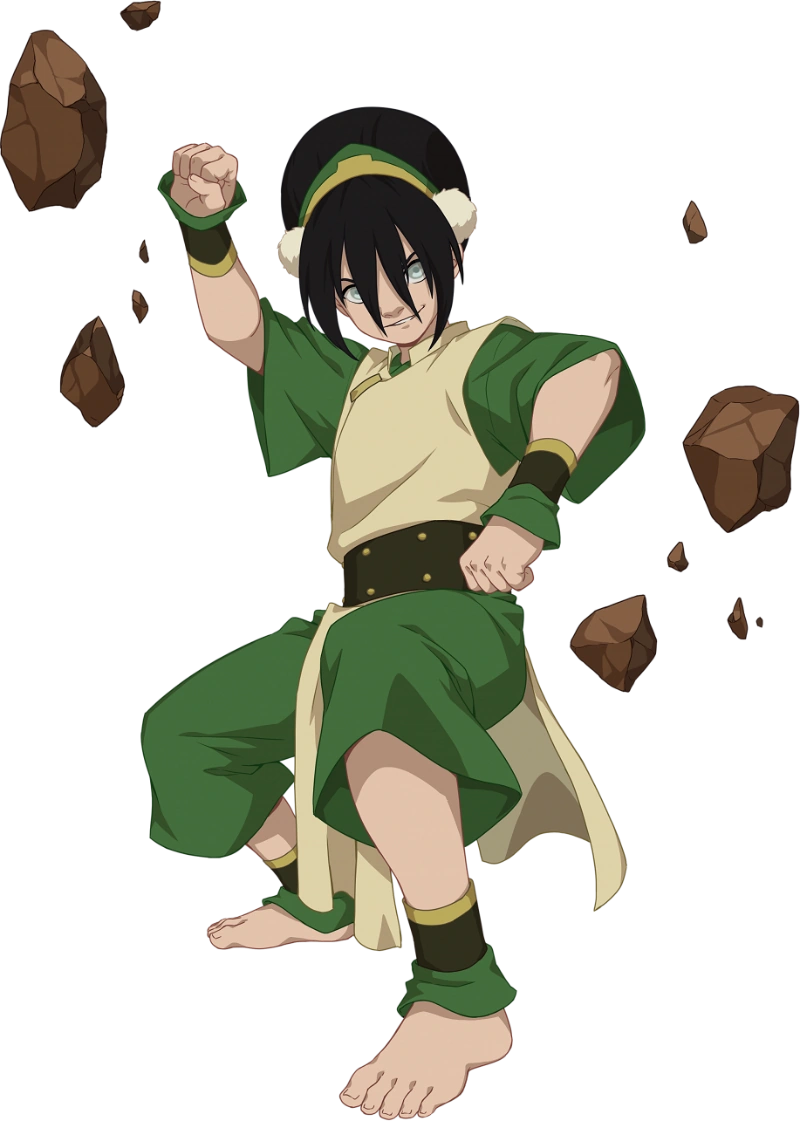
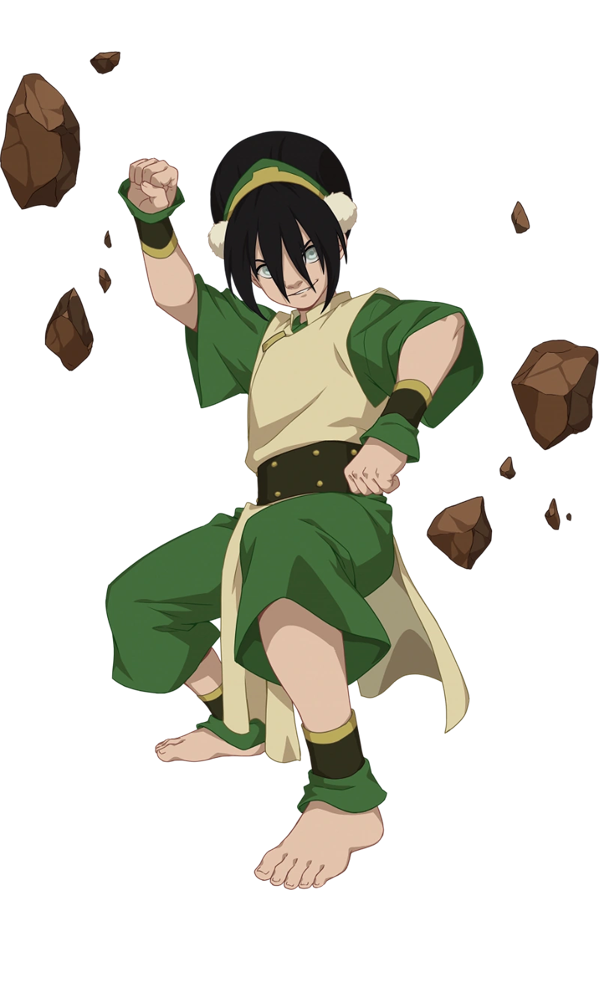
Resized Images, Edited Css and html
In this commit the Images were Resized. CSS & HTML was edited

diff --git a/index.html b/index.html
@@ -7,7 +7,7 @@
 </head>
 <body>
     <header>
-        <h1 class="hidden">All About the Crew</h1>
+        <h1 class="hidden">All About the Team</h1>
         <img src="images/Avatar-Logo.webp" id="main-logo" alt="Marvel Logo">
     </header>
 
@@ -97,26 +97,24 @@
     <section class="lightbox" id="lightbox2">
         <a href="" class="lightbox_close">X</a>
         <article>
-            <h3 class="lb_heading"> Katara </h3>
+            <h3 class="lb_heading"> Katara the Master Bender of the Southern Water Tribe </h3>
             <p class="lb_text">
-                His presence is felt long before he appears, carried on the whispers of the wind and the dance of the leaves.
-                With eyes that hold the wisdom of centuries and a heart as boundless as the sky, he embodies the very essence 
-                of air itself — free, untamed, and unyielding.
+                A determined and compassionate young woman with flowing brown hair and piercing blue eyes. 
+                From a young age, she showed promise as a waterbender, using her abilities to help her small 
+                community survive in the harsh environment.
             </p>
 
 
             <p class="lb_text">
-                Aang moves with the grace of a leaf carried by a gentle breeze, his every step a testament to the harmony between
-                man and nature. Yet beneath his tranquil exterior lies the fierce determination of a warrior, honed by the weight 
-                of his responsibility to restore balance to a world torn apart by war. His movements are fluid, a seamless fusion 
-                of martial prowess and spiritual mastery, as he bends the air around him to his will.
+                Katara's life changed when she discovered a mysterious boy named Aang trapped in an iceberg. 
+                Little did she know, Aang was the long-lost Avatar, destined to bring balance to the world. 
+                With her brother Sokka by her side, Katara embarked on a journey filled with adventure and danger.
             </p>
            
             <p class="lb_text">
-                But Aang is more than just a bender; he is the Avatar, the bridge between the mortal realm and the divine.
-                With each breath, he channels the ancient power of his predecessors, drawing strength from the spirits of the past 
-                to shape the destiny of the future. And though the burden of his destiny weighs heavy upon his shoulders, he carries 
-                it with a smile, for he knows that within him lies the power to change the world.
+                As they traveled, Katara's waterbending skills grew stronger, fueled by her determination to protect 
+                her newfound friends and restore peace to the war-torn world. She faced formidable foes, including 
+                powerful firebenders and cunning strategists, but her resilience and courage never wavered.
             </p>
 
         </article>        
@@ -125,26 +123,25 @@
     <section class="lightbox" id="lightbox3">
         <a href="" class="lightbox_close">X</a>
         <article>
-            <h3 class="lb_heading"> Sokka </h3>
+            <h3 class="lb_heading"> Sokka the Chieftain of the Southern Water Tribe </h3>
             <p class="lb_text">
-                His presence is felt long before he appears, carried on the whispers of the wind and the dance of the leaves.
-                With eyes that hold the wisdom of centuries and a heart as boundless as the sky, he embodies the very essence 
-                of air itself — free, untamed, and unyielding.
+                A resourceful and brave warrior with a sharp mind and a witty tongue.
+                With his rugged appearance, blue eyes, and a trusty boomerang always at his side, 
+                Sokka was a vital member of his tribe, even without bending abilities like his sister Katara.
             </p>
 
 
             <p class="lb_text">
-                Aang moves with the grace of a leaf carried by a gentle breeze, his every step a testament to the harmony between
-                man and nature. Yet beneath his tranquil exterior lies the fierce determination of a warrior, honed by the weight 
-                of his responsibility to restore balance to a world torn apart by war. His movements are fluid, a seamless fusion 
-                of martial prowess and spiritual mastery, as he bends the air around him to his will.
+                Despite lacking bending powers, Sokka's intelligence and ingenuity were unmatched. 
+                He crafted weapons, devised clever strategies, and constantly sought ways to protect 
+                his loved ones and contribute to their journey. His journey truly began when he encountered Aang, 
+                the last Airbender and the Avatar.
             </p>
            
             <p class="lb_text">
-                But Aang is more than just a bender; he is the Avatar, the bridge between the mortal realm and the divine.
-                With each breath, he channels the ancient power of his predecessors, drawing strength from the spirits of the past 
-                to shape the destiny of the future. And though the burden of his destiny weighs heavy upon his shoulders, he carries 
-                it with a smile, for he knows that within him lies the power to change the world.
+                Sokka's initial skepticism quickly turned into fierce loyalty as he joined Aang and Katara on 
+                their quest to save the world. His humor and sarcasm added levity to their perilous adventures, 
+                but beneath his jokes lay a deep sense of responsibility and determination.
             </p>
 
 
@@ -154,26 +151,24 @@
     <section class="lightbox" id="lightbox4">
         <a href="" class="lightbox_close">X</a>
         <article>
-            <h3 class="lb_heading">  Suki - The Kyosi Warrior</h3>
+            <h3 class="lb_heading">  Suki The Kyosi Warrior</h3>
             <p class="lb_text">
-                His presence is felt long before he appears, carried on the whispers of the wind and the dance of the leaves.
-                With eyes that hold the wisdom of centuries and a heart as boundless as the sky, he embodies the very essence 
-                of air itself — free, untamed, and unyielding.
+                Stood out as a skilled and determined young warrior with a fierce spirit and unwavering dedication.
+                With her dark hair tied up in a bun and traditional Kyoshi Warrior attire adorning her lithe frame, 
+                Suki epitomized strength and grace.
             </p>
 
 
             <p class="lb_text">
-                Aang moves with the grace of a leaf carried by a gentle breeze, his every step a testament to the harmony between
-                man and nature. Yet beneath his tranquil exterior lies the fierce determination of a warrior, honed by the weight 
-                of his responsibility to restore balance to a world torn apart by war. His movements are fluid, a seamless fusion 
-                of martial prowess and spiritual mastery, as he bends the air around him to his will.
+                Raised on Kyoshi Island, Suki honed her martial arts prowess under the guidance of the legendary Kyoshi Warriors. 
+                Her training instilled in her a sense of discipline, precision, and a deep respect for her heritage as a 
+                protector of her homeland.
             </p>
            
             <p class="lb_text">
-                But Aang is more than just a bender; he is the Avatar, the bridge between the mortal realm and the divine.
-                With each breath, he channels the ancient power of his predecessors, drawing strength from the spirits of the past 
-                to shape the destiny of the future. And though the burden of his destiny weighs heavy upon his shoulders, he carries 
-                it with a smile, for he knows that within him lies the power to change the world.
+                Suki's path intertwined with Team Avatar when they visited Kyoshi Island on their journey.
+                Impressed by her combat skills and leadership qualities, Sokka quickly developed feelings for Suki,
+                sparking a unique bond between the two.
             </p>
 
 
@@ -183,26 +178,24 @@
     <section class="lightbox" id="lightbox5">
         <a href="" class="lightbox_close">X</a>
         <article>
-            <h3 class="lb_heading">  Toph Beifong </h3>
+            <h3 class="lb_heading">  Toph Beifong the Blind Bandit </h3>
             <p class="lb_text">
-                His presence is felt long before he appears, carried on the whispers of the wind and the dance of the leaves.
-                With eyes that hold the wisdom of centuries and a heart as boundless as the sky, he embodies the very essence 
-                of air itself — free, untamed, and unyielding.
+                Emerged as a groundbreaking figure, defying expectations and redefining what it meant to be a powerful earthbender. 
+                With her blind eyes and earthy attire, including her iconic green headband, Toph exuded confidence and strength.
             </p>
 
 
             <p class="lb_text">
-                Aang moves with the grace of a leaf carried by a gentle breeze, his every step a testament to the harmony between
-                man and nature. Yet beneath his tranquil exterior lies the fierce determination of a warrior, honed by the weight 
-                of his responsibility to restore balance to a world torn apart by war. His movements are fluid, a seamless fusion 
-                of martial prowess and spiritual mastery, as he bends the air around him to his will.
+                Born into privilege as the daughter of wealthy parents in the Earth Kingdom, Toph faced societal barriers due to 
+                her blindness. However, she refused to let her disability define her, mastering a unique form of earthbending known 
+                as seismic sense to "see" the world through vibrations in the earth.
             </p>
            
             <p class="lb_text">
-                But Aang is more than just a bender; he is the Avatar, the bridge between the mortal realm and the divine.
-                With each breath, he channels the ancient power of his predecessors, drawing strength from the spirits of the past 
-                to shape the destiny of the future. And though the burden of his destiny weighs heavy upon his shoulders, he carries 
-                it with a smile, for he knows that within him lies the power to change the world.
+                Toph's journey intertwined with Team Avatar when she left her comfortable life to seek adventure and independence.
+                Despite initial doubts from others, Toph quickly proved herself as an indispensable ally with her unparalleled earthbending 
+                abilities. Her bending style was raw, powerful, and innovative, allowing her to sense opponents' movements and launch 
+                devastating attacks with precision.
             </p>
 
 
@@ -214,24 +207,25 @@
         <article>
             <h3 class="lb_heading">  Price Zuko of the Fire Nation </h3>
             <p class="lb_text">
-                His presence is felt long before he appears, carried on the whispers of the wind and the dance of the leaves.
-                With eyes that hold the wisdom of centuries and a heart as boundless as the sky, he embodies the very essence 
-                of air itself — free, untamed, and unyielding.
+                Prince Zuko's journey was one of profound transformation and redemption. Initially driven by a burning desire to
+                regain his honor and win his father's approval, Zuko relentlessly pursued the Avatar, displaying formidable firebending 
+                skills and unwavering determination. However, as his quest unfolded, Zuko faced moral dilemmas that challenged his beliefs,
+                leading to a gradual realization of the true meaning of honor and compassion.
             </p>
 
 
             <p class="lb_text">
-                Aang moves with the grace of a leaf carried by a gentle breeze, his every step a testament to the harmony between
-                man and nature. Yet beneath his tranquil exterior lies the fierce determination of a warrior, honed by the weight 
-                of his responsibility to restore balance to a world torn apart by war. His movements are fluid, a seamless fusion 
-                of martial prowess and spiritual mastery, as he bends the air around him to his will.
+                Zuko's character arc took a significant turn when he encountered Team Avatar, including Aang, Katara, Sokka, and Toph. 
+                Through his interactions with them and the guidance of his wise uncle Iroh, Zuko embarked on a path of self-discovery and 
+                inner conflict resolution. His struggles with past mistakes, internal turmoil, and conflicting loyalties mirrored his journey 
+                toward understanding the complexities of identity and moral responsibility.
             </p>
            
             <p class="lb_text">
-                But Aang is more than just a bender; he is the Avatar, the bridge between the mortal realm and the divine.
-                With each breath, he channels the ancient power of his predecessors, drawing strength from the spirits of the past 
-                to shape the destiny of the future. And though the burden of his destiny weighs heavy upon his shoulders, he carries 
-                it with a smile, for he knows that within him lies the power to change the world.
+                Ultimately, Zuko's transformation from a conflicted prince to a wise and compassionate Fire Lord symbolized the power 
+                of redemption and personal growth. His story resonated with audiences as a testament to the enduring values of forgiveness, 
+                reconciliation, and the capacity for change, leaving a lasting impact on the world of Avatar and inspiring viewers to seek their 
+                own paths of redemption and self-discovery.
             </p>
 
 

diff --git a/css/main.css b/css/main.css
@@ -143,7 +143,7 @@ footer {
     background-image: url(../images/Aang-WB.png);
     background-repeat: no-repeat;
     background-size: 55vh;
-    background-position: 40px bottom;
+    background-position: bottom 40px left 150px;
     display: none;
 }
 
